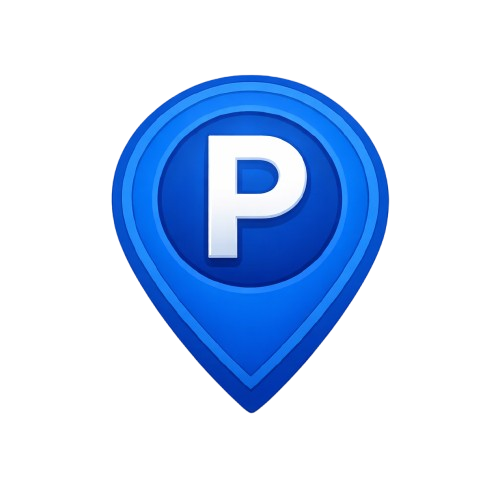
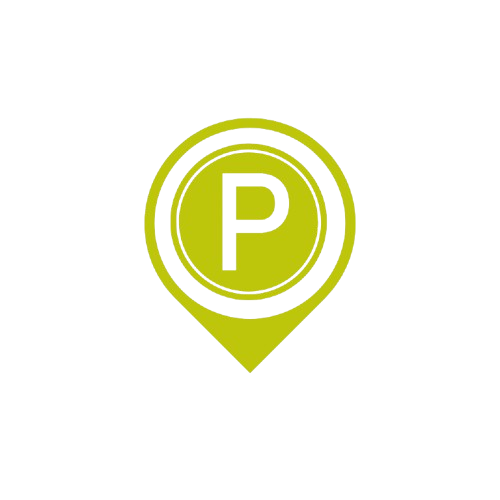
Novos icones

Changed region(s): [[0.21, 0.15, 0.78, 0.84]]

diff --git a/frontend/src/mapa_personalizado/scripts/functions.js b/frontend/src/mapa_personalizado/scripts/functions.js
@@ -67,7 +67,7 @@ function renderLabels(features) {
             labelMarker = L.marker(latLng, {
                 icon: L.icon({
                     iconUrl: 'documents/imgs/assets/comercio-icon.png', 
-                    iconSize: [44, 44], 
+                    iconSize: [56, 56], 
                     iconAnchor: [24, 38],
                     popupAnchor: [0, -32]
                 }),
@@ -95,7 +95,7 @@ function renderLabels(features) {
             labelMarker = L.marker(latLng, {
                 icon: L.icon({
                     iconUrl: 'documents/imgs/assets/parque-das-pedras.png', 
-                    iconSize: [48, 48], 
+                    iconSize: [56, 56], 
                     iconAnchor: [24, 24],
                     popupAnchor: [0, -32]
                 }),
@@ -123,8 +123,8 @@ function renderLabels(features) {
             labelMarker = L.marker(latLng, {
                 icon: L.icon({
                     iconUrl: 'documents/imgs/assets/reitoria-icon.png', 
-                    iconSize: [48, 48], 
-                    iconAnchor: [24, 24],
+                    iconSize: [66, 66], 
+                    iconAnchor: [30, 29],
                     popupAnchor: [0, -32]
                 }),
                 interactive: true 
@@ -151,8 +151,8 @@ function renderLabels(features) {
             labelMarker = L.marker(latLng, {
                 icon: L.icon({
                     iconUrl: 'documents/imgs/assets/biblioteca-icon.png', 
-                    iconSize: [48, 48], 
-                    iconAnchor: [27, 29],
+                    iconSize: [68, 68], 
+                    iconAnchor: [30, 32],
                     popupAnchor: [0, -32]
                 }),
                 interactive: true 
@@ -179,8 +179,8 @@ function renderLabels(features) {
             labelMarker = L.marker(latLng, {
                 icon: L.icon({
                     iconUrl: 'documents/imgs/assets/museu-icon.png', 
-                    iconSize: [48, 48], 
-                    iconAnchor: [18, 26],
+                    iconSize: [66, 66], 
+                    iconAnchor: [29, 32],
                     popupAnchor: [0, -32]
                 }),
                 interactive: true 
@@ -209,7 +209,7 @@ function renderLabels(features) {
             labelMarker = L.marker(latLng, {
                 icon: L.icon({
                     iconUrl: 'documents/imgs/assets/estacionamento-icon.png', 
-                    iconSize: [48, 48], 
+                    iconSize: [56, 56], 
                     iconAnchor: [18, 38],
                     popupAnchor: [0, -32]
                 }),
@@ -239,7 +239,7 @@ function renderLabels(features) {
             labelMarker = L.marker(latLng, {
                 icon: L.icon({
                     iconUrl: 'documents/imgs/assets/auditorio-icon.png', 
-                    iconSize: [48, 48], 
+                    iconSize: [66, 66], 
                     iconAnchor: [18, 38],
                     popupAnchor: [0, -32]
                 }),
@@ -268,8 +268,8 @@ function renderLabels(features) {
             labelMarker = L.marker(latLng, {
                 icon: L.icon({
                     iconUrl: 'documents/imgs/assets/eva-icon.png', 
-                    iconSize: [48, 48], 
-                    iconAnchor: [24, 42],
+                    iconSize: [68, 68], 
+                    iconAnchor: [32, 39],
                     popupAnchor: [0, -32]
                 }),
                 interactive: true 
@@ -290,15 +290,15 @@ function renderLabels(features) {
                 <div class="popup-ginasio">
                     <h3>${props.nome}</h3>
                     <img src="${imageFinal}" alt="${props.nome}"/>
-                    <p>${descFinal}</p>
+                    <p>${descFinal}</p>'
                 </div>
             `;
 
             labelMarker = L.marker(latLng, {
                 icon: L.icon({
                     iconUrl: 'documents/imgs/assets/ginasio.png', 
-                    iconSize: [48, 48], 
-                    iconAnchor: [24, 42],
+                    iconSize: [66, 66], 
+                    iconAnchor: [34, 40],
                     popupAnchor: [0, -32]
                 }),
                 interactive: true 
